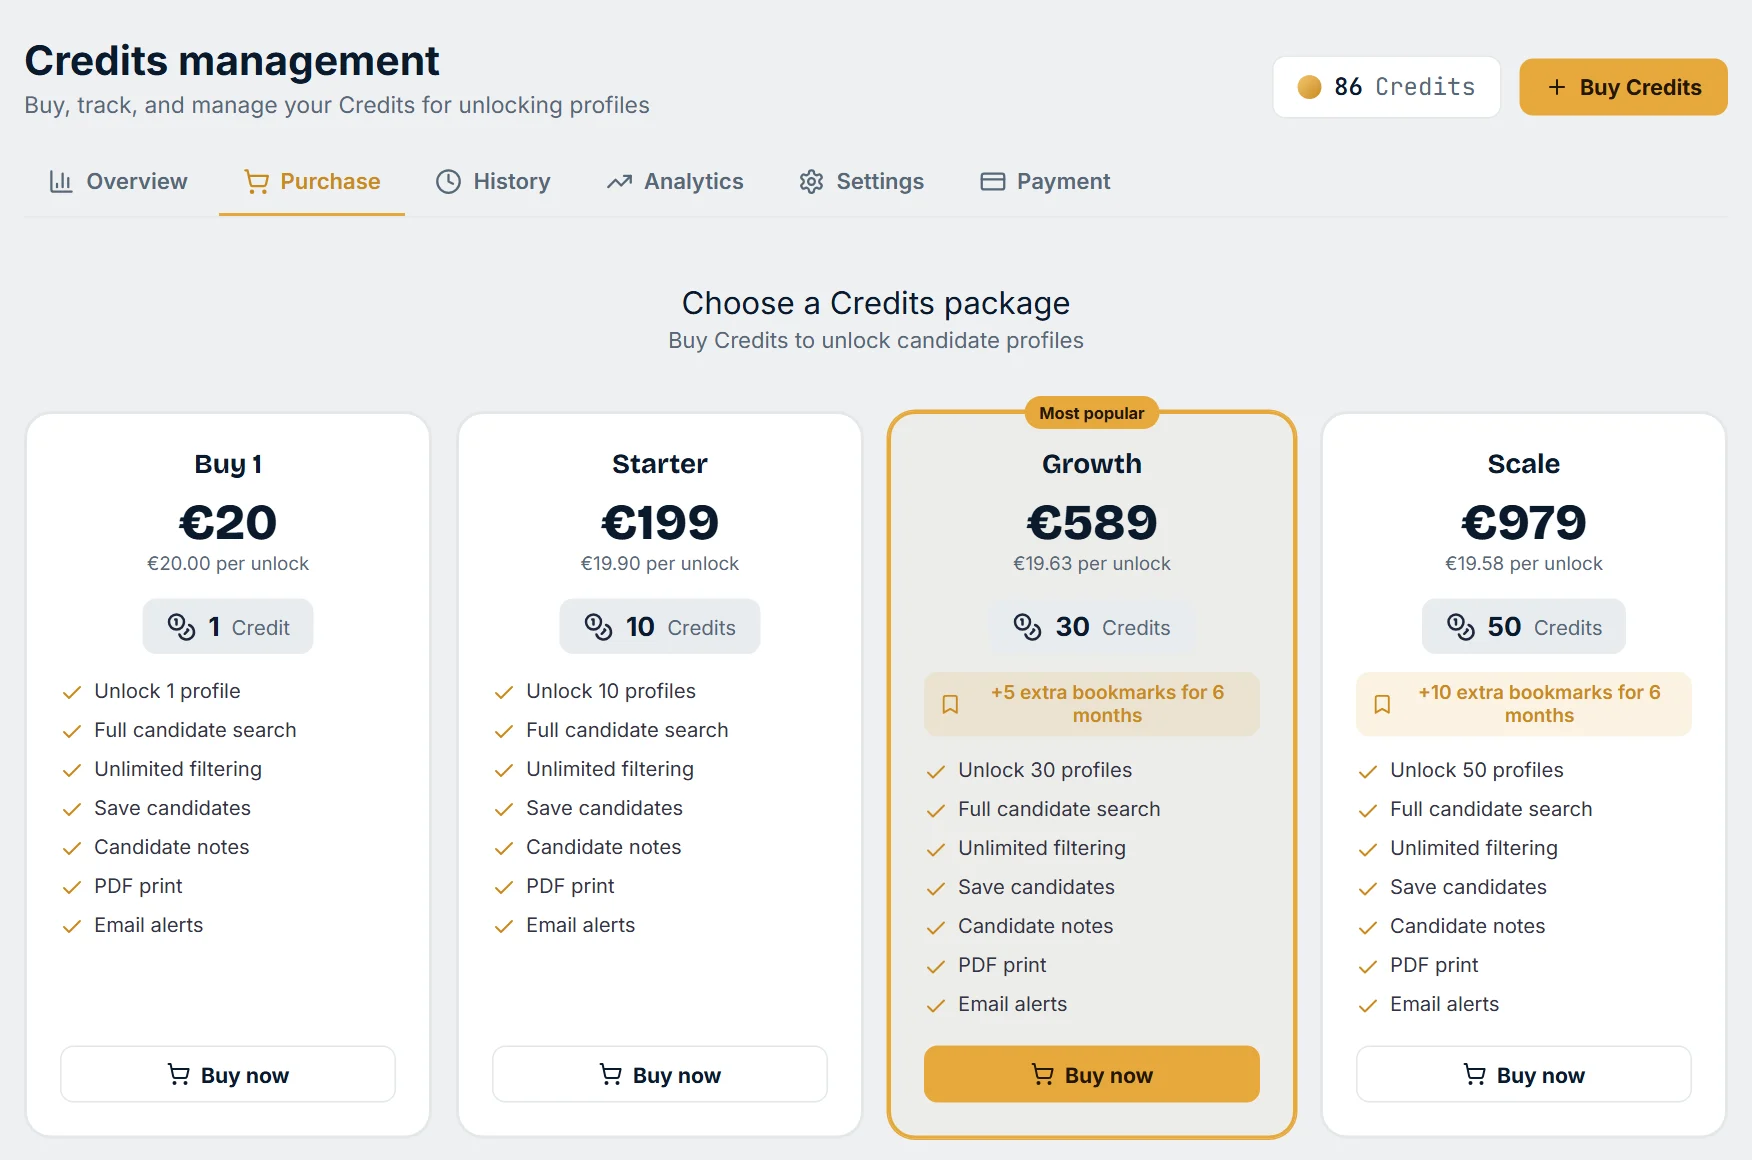
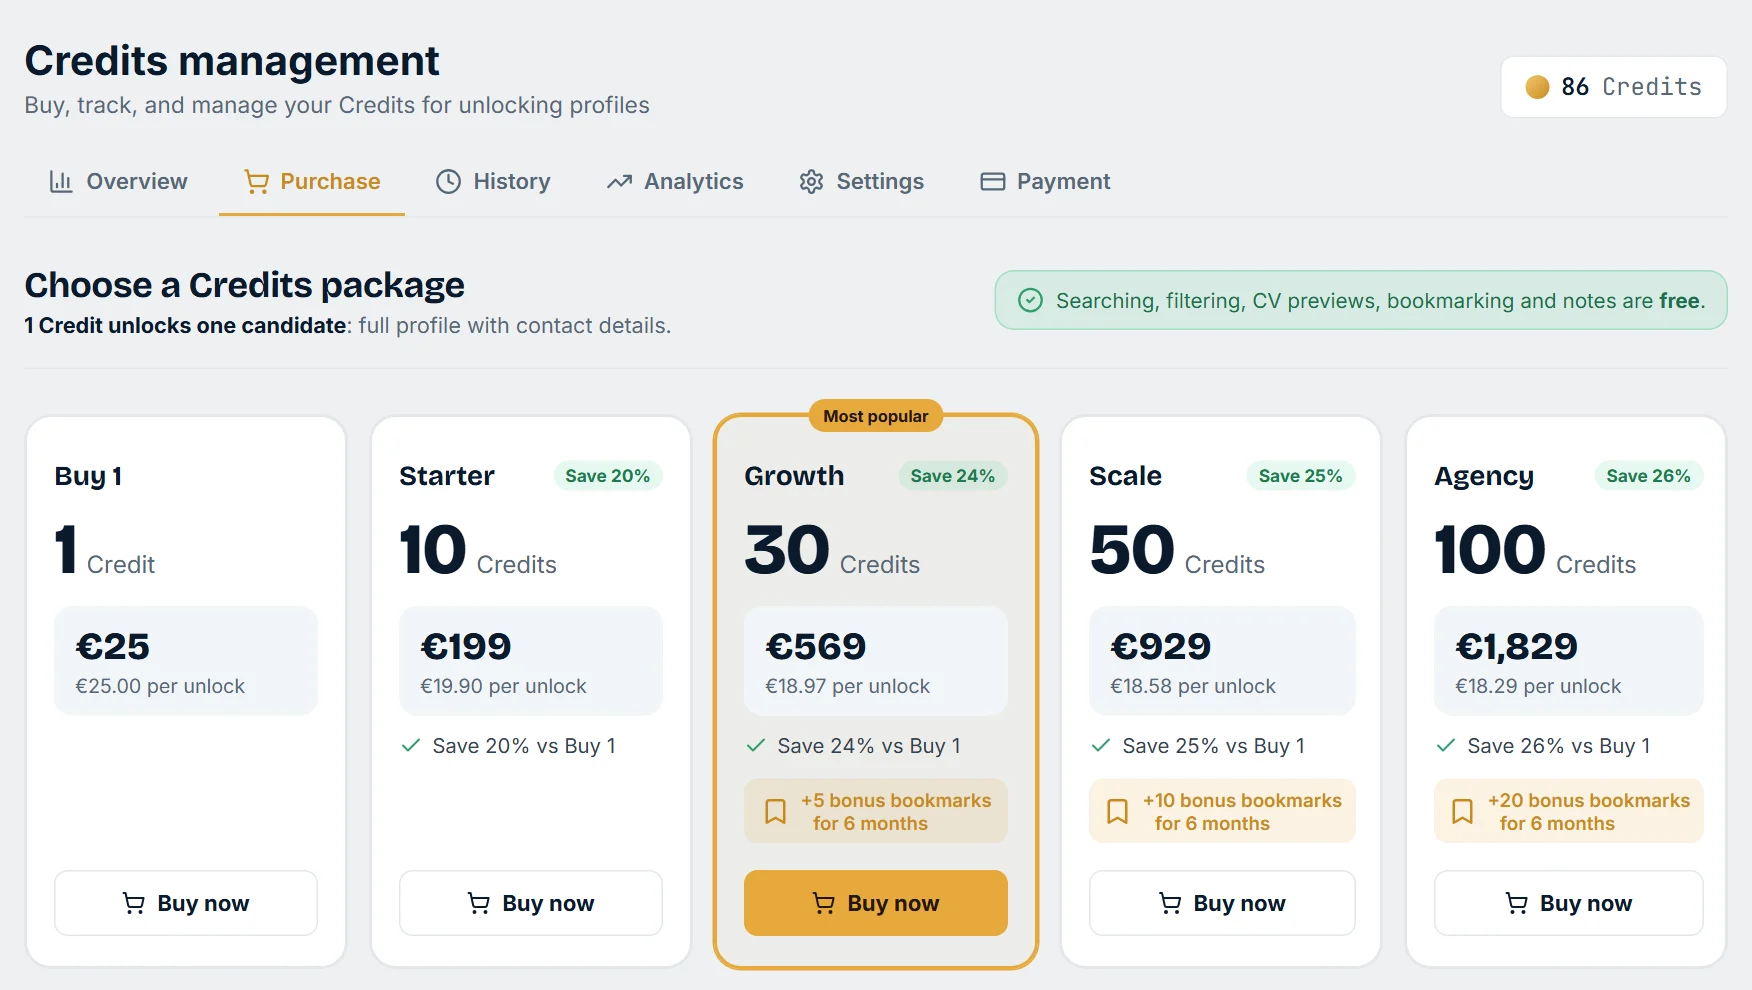
Help & legal: saved cards, low balance alert, team purchases, card security
- Help, Buy Credits: the checkout steps as they are now, current package
  screenshot, anyone on the team can buy, History/Analytics as the tabs are
  today, and new "Saved cards" and "Low balance alert" subsections with
  screenshots. Team: only the owner removes cards and changes the alert.
- Privacy: section 2 is now "Payments and card security" (encryption, PCI
  DSS via Paddle, 3D Secure, what the team sees of a saved card); the
  Payment tab's "Learn more about security" links straight to it.
- Terms: any team member can buy for the company, which is responsible for
  those purchases.
- Payment tab: PCI DSS is Paddle's, not a claim about Talentmon.
- Help screenshot script: Payment and Low balance alert shots, and
  HELP_SHOTS_ONLY to redo just some of them.

diff --git a/src/pages/company/help/index.jsx b/src/pages/company/help/index.jsx
@@ -338,8 +338,9 @@ const CompanyHelp = () => {
               <Steps
                 items={[
                   <>Click <b>Credits</b> in the top bar, then <b>Buy Credits</b> (or open the <b>Purchase</b> tab).</>,
-                  <>Pick a package. The bigger the package, the lower the price per unlock.</>,
-                  <>Click <b>Buy now</b>, check the summary and pay by card in the secure checkout. The Credits land on your balance right away.</>,
+                  <>Pick a package and click <b>Buy now</b>. The bigger the package, the lower the price per unlock.</>,
+                  <>Check the summary and click <b>Continue to payment</b>.</>,
+                  <>Pay in Paddle's secure checkout, by card or PayPal. The Credits land on your balance right away.</>,
                 ]}
               />
               <Figure
@@ -352,13 +353,60 @@ const CompanyHelp = () => {
                 columns={2}
                 items={[
                   { icon: 'Infinity', title: 'Credits never expire', text: 'Buy once and use them whenever you need them.' },
-                  { icon: 'Users', title: 'One balance for the team', text: 'Everyone on your team spends from the same balance. It is always shown in the top bar.' },
+                  { icon: 'Users', title: 'One balance for the team', text: 'Everyone on your team can buy Credits and spends from the same balance. It is always shown in the top bar.' },
                   { icon: 'Bookmark', title: 'Bonus bookmark slots', text: 'Larger packages add extra bookmark slots for 6 months. The bonus is shown on each package.' },
                   { icon: 'Wallet', title: 'Your currency', text: "Prices include VAT and are shown in your company's billing currency (EUR, USD, GBP or CNY), set under Account settings." },
-                  { icon: 'History', title: 'History', text: 'Every purchase and unlock in one list, and with a team, who made it.' },
-                  { icon: 'BarChart3', title: 'Analytics', text: 'Monthly usage and hires, so you can see what your hiring costs.' },
+                  { icon: 'History', title: 'History', text: 'Every purchase and unlock, grouped by day, with totals at the top and Export CSV. With a team, it shows who made each one.' },
+                  { icon: 'BarChart3', title: 'Analytics', text: 'Hire rate, cost per hire and time to hire, where your unlocked candidates are now, and what each team member unlocked.' },
                 ]}
               />
+
+              <div className={styles.subTitle}>Saved cards</div>
+              <div className={styles.split}>
+                <div className={styles.prose}>
+                  <p>
+                    At checkout, tick <b>Save my card details</b> to keep your card for next time. The next checkout
+                    offers it, so nobody has to type it in again. Saved cards belong to the company: anyone on the team
+                    can pay with them, or with a new card.
+                  </p>
+                  <Path>Credits → Payment</Path>
+                  <ul className={styles.bullets}>
+                    <li><b>Manage cards</b> lists every saved card. Only the account owner sees it and can remove cards.</li>
+                    <li>The rest of the team gets <b>See other cards</b>: the same list, without Remove.</li>
+                    <li>To add another card, pay with it at checkout and tick the box to save it.</li>
+                    <li>Card details stay with Paddle. Talentmon only shows the card type, last four digits and expiry date.</li>
+                  </ul>
+                </div>
+                <Figure
+                  src="/help/credits-payment-methods.webp"
+                  alt="Payment tab with a saved card and the list of saved cards"
+                  caption="The Payment tab, with Manage cards open."
+                  onZoom={setZoomed}
+                />
+              </div>
+
+              <div className={styles.subTitle}>Low balance alert</div>
+              <div className={styles.split}>
+                <div className={styles.prose}>
+                  <p>
+                    Get a heads-up before your team runs out of Credits. Pick an alert level: when your balance drops to
+                    that many Credits or fewer, you count as running low. It's on by default at 5 Credits.
+                  </p>
+                  <Path>Credits → Settings</Path>
+                  <ul className={styles.bullets}>
+                    <li>Any whole number from 1 to 100, with quick picks and a suggestion of about a week of unlocks at your team's pace.</li>
+                    <li>The balance in the top bar turns amber at the alert level.</li>
+                    <li>With <b>Notify the team</b> on, everyone gets a bell notification when the balance reaches the level, and again at zero. Each alert is sent once.</li>
+                    <li>Only the account owner changes the alert. The rest of the team sees how it's set.</li>
+                  </ul>
+                </div>
+                <Figure
+                  src="/help/credits-alert.webp"
+                  alt="Low balance alert on the Settings tab"
+                  caption="The alert level, the current balance and the notifications your team gets."
+                  onZoom={setZoomed}
+                />
+              </div>
             </section>
 
             {/* ===== 3. Search ===== */}
@@ -654,8 +702,8 @@ const CompanyHelp = () => {
                   <ul className={styles.bullets}>
                     <li>Each person can belong to only one company.</li>
                     <li>
-                      Only the account owner edits the company profile and billing currency, and can hand the account
-                      over to a teammate with <b>Make owner</b>.
+                      Only the account owner edits the company profile and billing currency, removes saved cards and
+                      changes the low balance alert, and can hand the account over to a teammate with <b>Make owner</b>.
                     </li>
                   </ul>
                 </div>

diff --git a/src/pages/landing/legal/PrivacyPolicy.jsx b/src/pages/landing/legal/PrivacyPolicy.jsx
@@ -4,7 +4,7 @@ import LegalLayout from './LegalLayout';
 const KEY_POINTS = [
   'We collect what we need to run Talentmon: account details, CV and company profile data, sign-in and usage data.',
   'Candidate profiles stay anonymous (no name, contact details or employers) until a company unlocks them.',
-  'We never see or store your full card number. Payments are handled by Paddle.',
+  "We never see or store your full card number. Payments are handled by Paddle; your team only sees a saved card's type, last four digits and expiry date.",
   "We don't sell your data. We share it only with the providers that run the service, listed in section 6.",
   'We use only the cookies needed to keep you signed in. No advertising or tracking cookies.',
   'You can access, correct or delete your data at any time.',
@@ -34,10 +34,26 @@ const PrivacyPolicy = () => (
       <li><b>Usage data</b> — actions like searches, bookmarks, and profile unlocks, needed to operate the Service</li>
     </ul>
 
-    <h2>2. Payment information</h2>
+    {/* The "Learn more about security" link on the Payment methods tab points here (#payments-and-card-security). */}
+    <h2>2. Payments and card security</h2>
     <p>
-      Purchases are processed by Paddle, our payment provider and Merchant of Record. Talentmon never sees or
-      stores your full card number — Paddle handles that directly. See Paddle's own{' '}
+      Purchases are processed by Paddle, our payment provider and Merchant of Record. You enter your card details
+      in Paddle's checkout and they go straight to Paddle: Talentmon never sees or stores your full card number or
+      security code.
+    </p>
+    <ul>
+      <li><b>Encrypted</b> — every payment is sent over an encrypted (SSL/TLS) connection</li>
+      <li><b>PCI DSS</b> — Paddle is compliant with PCI DSS, the card industry's data security standard</li>
+      <li><b>3D Secure</b> — your bank may ask you to confirm a payment</li>
+      <li>
+        <b>Saved cards</b> — if you tick the box to save your card at checkout, Paddle keeps it for your
+        company's future purchases. Everyone on your company's team can then pay with it, and on the Payment
+        tab they see each saved card's type, last four digits and expiry date. We load these details from Paddle
+        when the page opens and don't store them. Only the account owner can remove a saved card.
+      </li>
+    </ul>
+    <p>
+      See Paddle's own{' '}
       <a href="https://www.paddle.com/legal/privacy" target="_blank" rel="noreferrer">privacy policy</a> for how
       they handle payment data.
     </p>

diff --git a/src/pages/landing/legal/TermsOfService.jsx b/src/pages/landing/legal/TermsOfService.jsx
@@ -4,6 +4,7 @@ import LegalLayout from './LegalLayout';
 const KEY_POINTS = [
   'Talentmon lets companies search an anonymized pool of candidates and spend a credit to unlock a full profile.',
   'Credits are bought in one-time packages, never expire and are not refundable. There is no subscription.',
+  'Anyone on a company’s team can buy credits for it, and the company is responsible for those purchases.',
   'Payments are handled by Paddle, our Merchant of Record, including invoices and VAT.',
   'Unlocked candidate data is for your own recruiting only: no scraping, reselling or sharing outside your organization.',
   "Candidates own their profiles and their reviews of companies. A company can't edit or remove reviews.",
@@ -37,6 +38,11 @@ const TermsOfService = () => (
       Credits do not expire and there is no subscription or recurring billing — you only pay when you choose
       to buy more credits. Credit purchases are final and non-refundable, as described in our{' '}
       <a href="/refund-policy">Refund Policy</a>.
+    </p>
+    <p>
+      Any member of a company's team can buy credits for the company, either with a card saved to the company's
+      account or with a new card. The company is responsible for every purchase its team members make, and only
+      the account owner can remove a saved card.
     </p>
 
     <h2>3. Payment processing</h2>

diff --git a/src/pages/company/credit-management/components/PaymentMethods.jsx b/src/pages/company/credit-management/components/PaymentMethods.jsx
@@ -60,7 +60,7 @@ const SECURITY_POINTS = [
     title: 'Not stored on our servers',
     text: 'Your card details never sit on our servers.',
   },
-  { icon: <Icon name="Award" size={16} strokeWidth={1.75} />, title: 'PCI DSS compliant', text: 'We meet the card industry’s data security standard.' },
+  { icon: <Icon name="Award" size={16} strokeWidth={1.75} />, title: 'PCI DSS compliant', text: 'Payments are handled by Paddle, a PCI DSS compliant provider.' },
   {
     icon: (
       <svg width="16" height="16" viewBox="0 0 24 24" fill="none" stroke="currentColor" strokeWidth="1.75" strokeLinecap="round" strokeLinejoin="round">
@@ -234,7 +234,7 @@ const PaymentMethods = ({ onNotify = () => {}, onBuy }) => {
               </li>
             ))}
           </ul>
-          <a href="/privacy-policy" target="_blank" rel="noreferrer" className={styles.pmSecLink}>
+          <a href="/privacy-policy#payments-and-card-security" target="_blank" rel="noreferrer" className={styles.pmSecLink}>
             Learn more about security <Icon name="ExternalLink" size={14} />
           </a>
         </aside>
